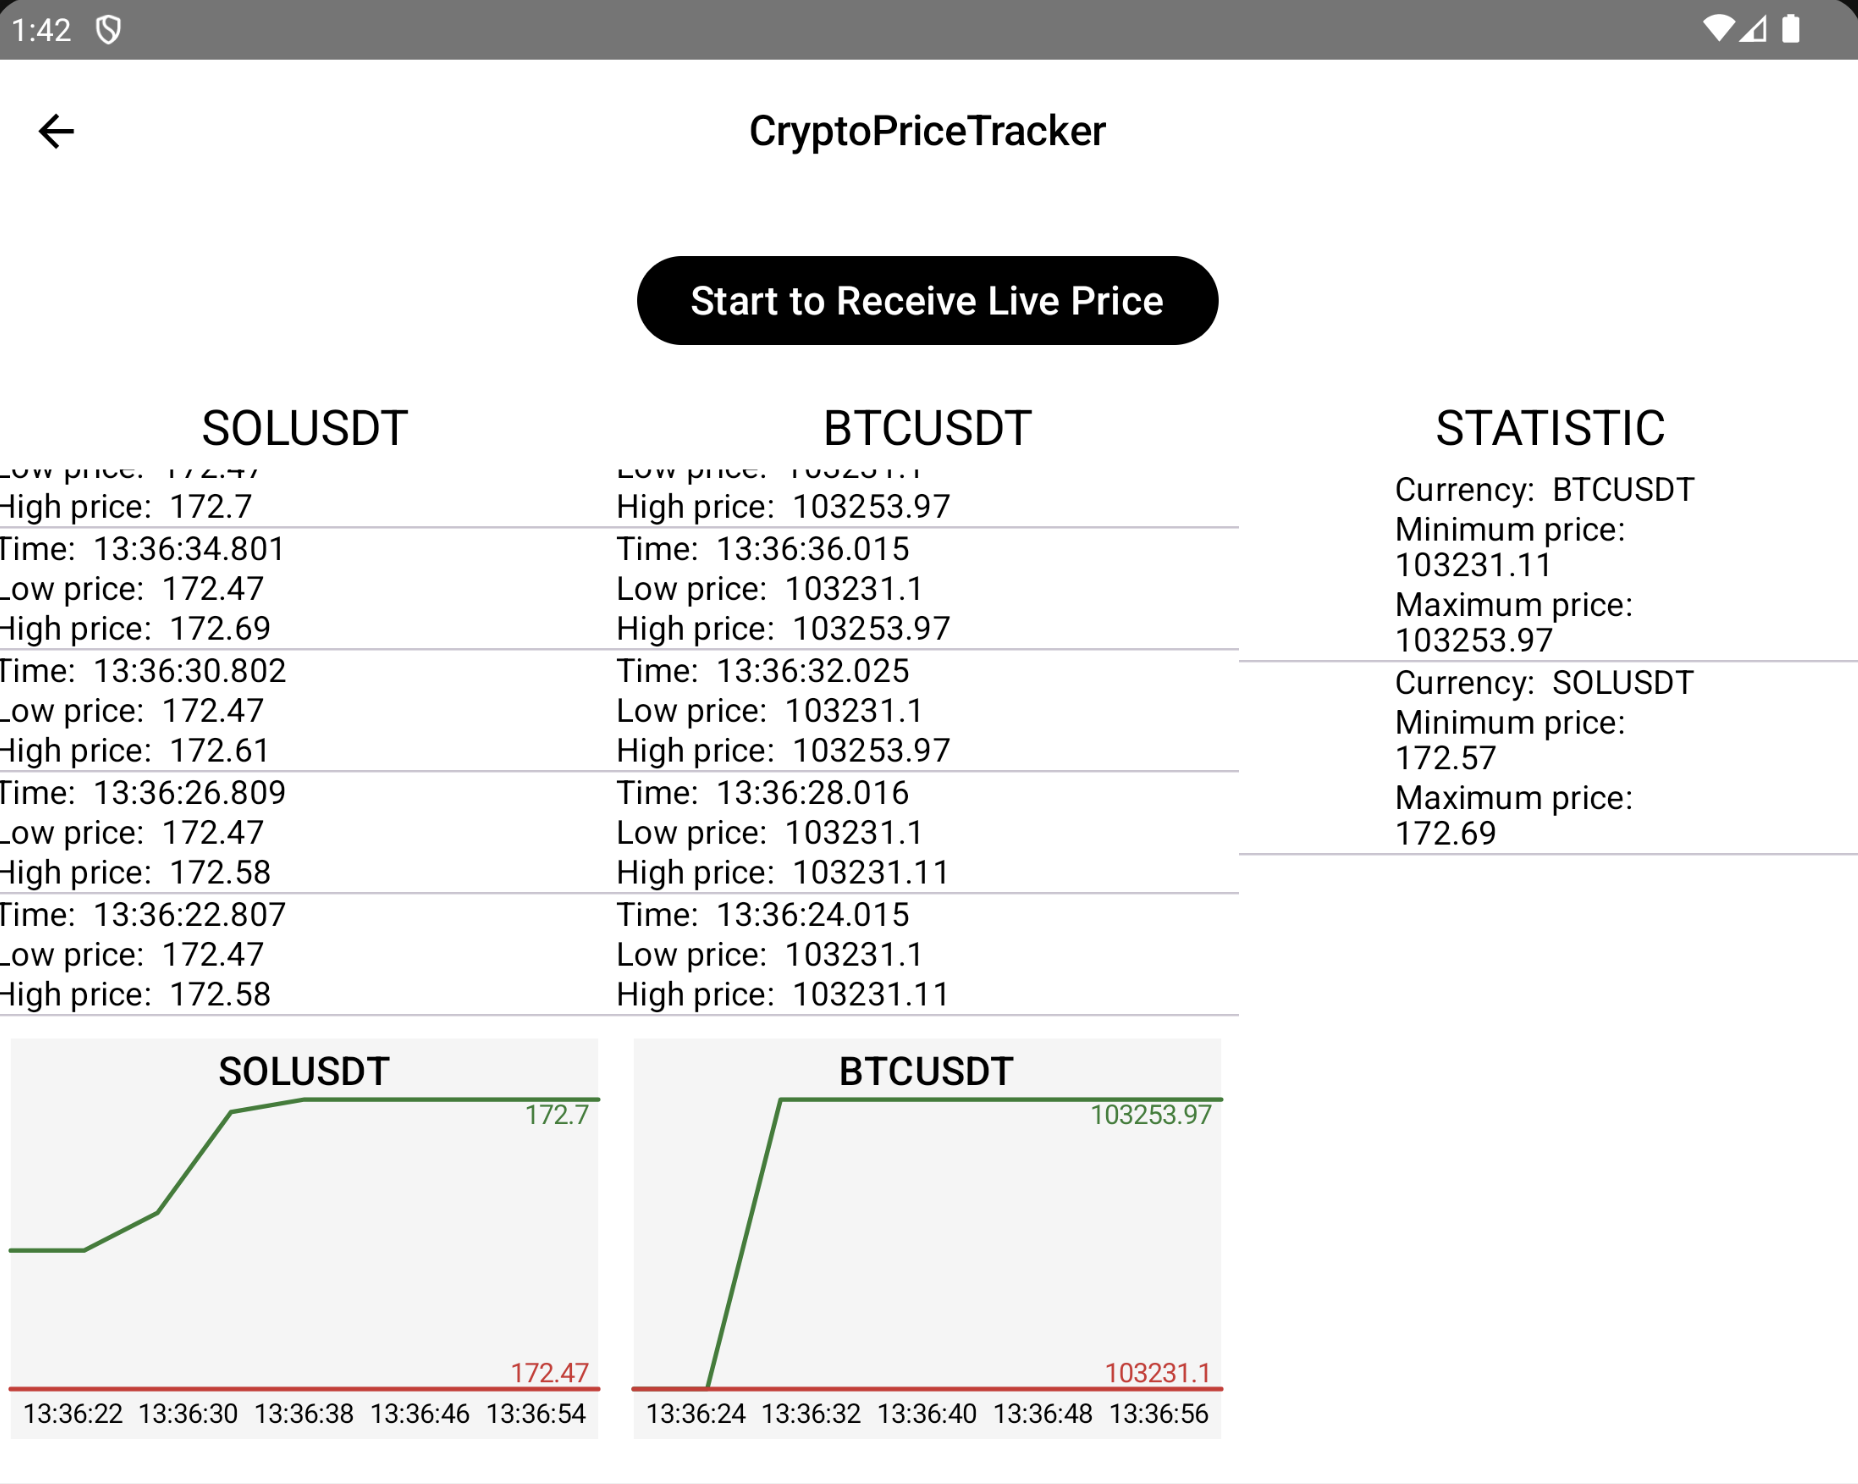
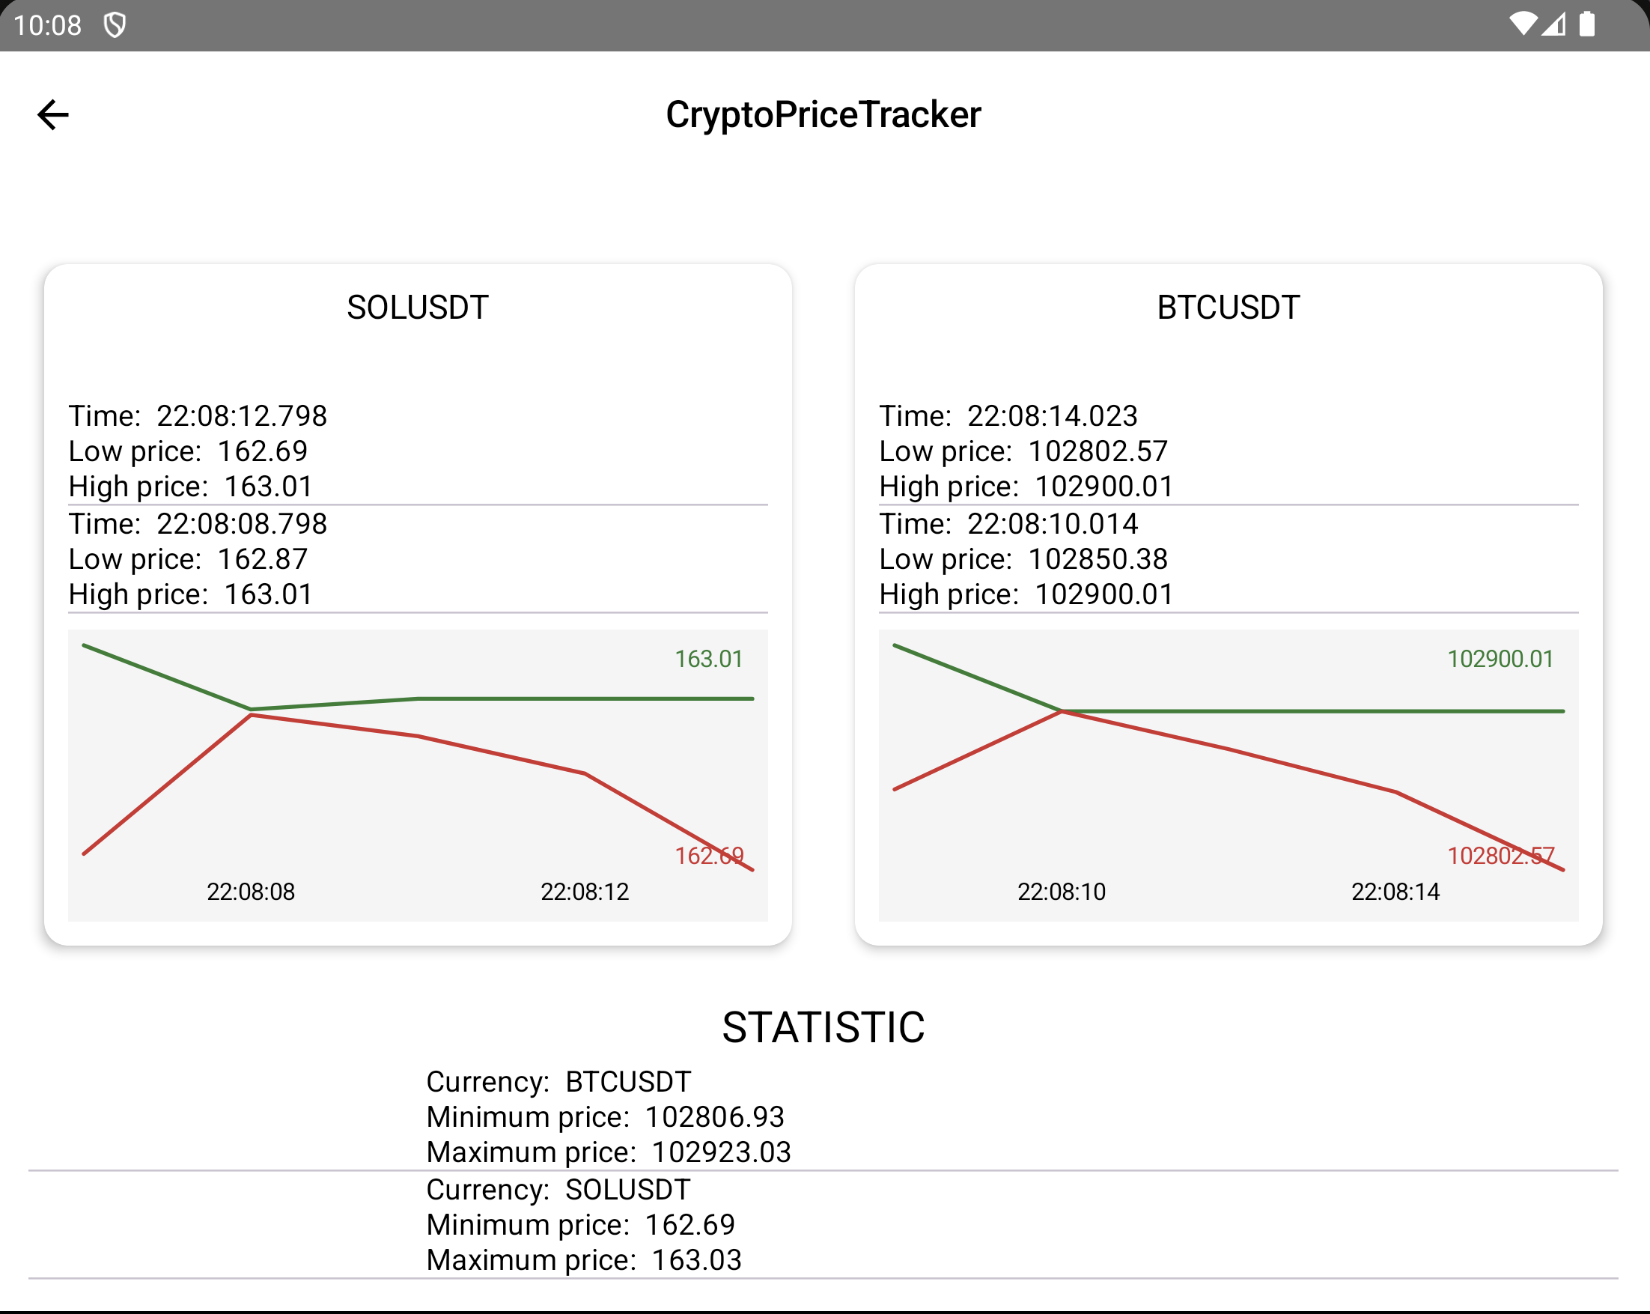
clean up visualization on crypto price display screen with updated images

diff --git a/composeApp/src/commonMain/kotlin/org/example/kmpsamples/presentation/cryptocurrencies/CryptocurrencyScreen.kt b/composeApp/src/commonMain/kotlin/org/example/kmpsamples/presentation/cryptocurrencies/CryptocurrencyScreen.kt
@@ -1,28 +1,25 @@
 package org.example.kmpsamples.presentation.cryptocurrencies
 
+import androidx.compose.runtime.LaunchedEffect
 import androidx.compose.foundation.Canvas
 import androidx.compose.foundation.background
 import androidx.compose.foundation.layout.*
-import androidx.compose.material3.Button
-import androidx.compose.material3.MaterialTheme
-import androidx.compose.material3.Text
-import androidx.compose.material3.windowsizeclass.WindowWidthSizeClass
+import androidx.compose.material3.*
 import androidx.compose.runtime.Composable
 import androidx.compose.runtime.State
 import androidx.compose.ui.Alignment
 import androidx.compose.ui.Modifier
+import androidx.compose.ui.draw.shadow
 import androidx.compose.ui.graphics.Color
 import androidx.compose.ui.graphics.Path
 import androidx.compose.ui.graphics.StrokeCap
 import androidx.compose.ui.graphics.StrokeJoin
 import androidx.compose.ui.graphics.drawscope.Stroke
-import androidx.compose.ui.text.intl.Locale
-import androidx.compose.ui.text.toUpperCase
+import androidx.compose.ui.text.style.TextAlign
 import androidx.compose.ui.unit.dp
+import kotlin.math.roundToInt
 import kmpsamples.composeapp.generated.resources.Res
-import kmpsamples.composeapp.generated.resources.button_start
 import kmpsamples.composeapp.generated.resources.statistic
-
 import org.example.kmpsamples.presentation.cryptocurrencies.viewModel.CryptocurrencyViewModel
 import org.example.kmpsamples.presentation.cryptocurrencies.viewModel.dtos.KLineDataUIState
 import org.example.kmpsamples.presentation.cryptocurrencies.views.CryptocurrencyList
@@ -30,11 +27,7 @@ import org.example.kmpsamples.presentation.cryptocurrencies.views.KlineListItem
 import org.example.kmpsamples.presentation.cryptocurrencies.views.KlineStatisticListItem
 import org.example.kmpsamples.presentation.fillMaxSizeModifier
 import org.example.kmpsamples.presentation.fillMaxWidthModifier
-import org.example.kmpsamples.presentation.getWindowSizeClass
 import org.jetbrains.compose.resources.stringResource
-
-import androidx.compose.ui.text.style.TextAlign
-import kotlin.math.roundToInt
 
 @Composable
 fun CryptocurrencyScreen(
@@ -42,72 +35,79 @@ fun CryptocurrencyScreen(
     uiState: State<CryptocurrencyViewModel.UIState>,
     onStartCollecting: () -> Unit
 ) {
-    val windowSizeClass = getWindowSizeClass()
-    val wideEnough      = windowSizeClass.widthSizeClass > WindowWidthSizeClass.Compact
+    LaunchedEffect(Unit) {
+        onStartCollecting()
+    }
 
     Column(
-        modifier  = modifier,
+        modifier = modifier
+            .background(MaterialTheme.colorScheme.background)
+            .padding(16.dp),
         horizontalAlignment = Alignment.CenterHorizontally
     ) {
         Spacer(Modifier.height(20.dp))
 
-        Button(onClick = onStartCollecting) {
-            Text(stringResource(Res.string.button_start))
-        }
+        Row(
+            fillMaxSizeModifier.weight(1f),
+            horizontalArrangement = Arrangement.spacedBy(16.dp)
+        ) {
+            val displayedCryptos = uiState.value.cryptoCurrencies.take(5)
+            val colMod = fillMaxWidthModifier.weight(1f / displayedCryptos.size).fillMaxHeight()
 
-        Spacer(Modifier.height(20.dp))
+            displayedCryptos.forEach { listItemUIState ->
+                val trimmedPoints =
+                    (listItemUIState.uiData as? org.example.kmpsamples.shared.ResultState.Success)
+                        ?.value?.take(2).orEmpty()
+                val trimmedPointsChart =
+                    (listItemUIState.uiData as? org.example.kmpsamples.shared.ResultState.Success)
+                        ?.value?.take(5).orEmpty()
 
-        /* ----------  TABLE(S) + CHART(S)  ---------- */
-        Row(fillMaxSizeModifier.weight(1f)) {
+                Card(
+                    modifier = colMod
+                        .padding(8.dp)
+                        .shadow(4.dp, shape = MaterialTheme.shapes.medium),
+                    elevation = CardDefaults.cardElevation(defaultElevation = 6.dp),
+                    colors = CardDefaults.cardColors(containerColor = MaterialTheme.colorScheme.surface)
+                ) {
+                    Column(Modifier.padding(12.dp)) {
+                        Text(
+                            text = listItemUIState.symbol.uppercase(),
+                            style = MaterialTheme.typography.titleMedium,
+                            modifier = Modifier.align(Alignment.CenterHorizontally)
+                        )
 
-            // how many columns – each symbol gets one, plus statistic column if wide
-            val columns = uiState.value.cryptoCurrencies.size + if (wideEnough) 1 else 0
-            val colMod  = fillMaxWidthModifier.weight(1f / columns).fillMaxHeight()
+                        Spacer(Modifier.height(4.dp))
 
-            uiState.value.cryptoCurrencies.forEach { listItemUIState ->
+                        CryptocurrencyList(
+                            modifier = Modifier.wrapContentHeight(),
+                            uiState = org.example.kmpsamples.shared.ResultState.Success(
+                                trimmedPoints
+                            ),
+                            title = ""
+                        ) { rowItem ->
+                            KlineListItem(
+                                modifier = fillMaxWidthModifier.wrapContentHeight(),
+                                klineData = rowItem
+                            )
+                        }
 
-                Column(colMod) {
+                        Spacer(Modifier.height(8.dp))
 
-                    /* ➊ live K‑line table */
-                    CryptocurrencyList(
-                        modifier = Modifier.weight(1f),
-                        uiState  = listItemUIState.uiData,
-                        title    = listItemUIState.symbol
-                    ) { rowItem ->
-                        KlineListItem(
-                            modifier = fillMaxWidthModifier.wrapContentHeight(),
-                            klineData = rowItem
+                        PriceChart(
+                            data = trimmedPointsChart,
+                            title = "",
+                            modifier = Modifier
+                                .height(150.dp)
+                                .fillMaxWidth()
                         )
                     }
-
-                    Spacer(Modifier.height(10.dp))
-
-                    /* ➋ lightweight dual‑series chart (high & low) */
-                    val points = (listItemUIState.uiData as? org.example.kmpsamples.shared.ResultState.Success)
-                        ?.value.orEmpty()
-
-                    PriceChart(
-                        data   = points,
-                        title  = listItemUIState.symbol.uppercase(),
-                        modifier = Modifier
-                            .height(180.dp)
-                            .fillMaxWidth()
-                            .padding(horizontal = 8.dp)
-                    )
                 }
-            }
-
-            /* optional statistic column */
-            if (wideEnough) {
-                statisticList(colMod, uiState)
             }
         }
 
         Spacer(Modifier.height(20.dp))
 
-        if (!wideEnough) {
-            statisticList(Modifier.wrapContentHeight(), uiState)
-        }
+        statisticList(Modifier.wrapContentHeight(), uiState)
     }
 }
 
@@ -116,10 +116,12 @@ private fun statisticList(modifier: Modifier, uiState: State<CryptocurrencyViewM
     CryptocurrencyList(
         modifier,
         uiState.value.statistic,
-        stringResource(Res.string.statistic).toUpperCase(Locale.current)
+        stringResource(Res.string.statistic).uppercase()
     ) { listItem ->
         KlineStatisticListItem(
-            Modifier.fillMaxWidth(0.5f).wrapContentHeight(),
+            Modifier
+                .fillMaxWidth(0.5f)
+                .wrapContentHeight(),
             listItem
         )
     }
@@ -130,48 +132,27 @@ private fun PriceChart(
     modifier: Modifier = Modifier,
     data: List<KLineDataUIState>,
     title: String,
-    lineColorHigh: Color = Color(0xFF2E7D32),   // green-700
-    lineColorLow:  Color = Color(0xFFD32F2F),   // red-700
-    backgroundColor: Color = Color(0xFFF5F5F5)  // light gray
+    lineColorHigh: Color = Color(0xFF2E7D32),
+    lineColorLow: Color = Color(0xFFD32F2F),
+    backgroundColor: Color = Color(0xFFF5F5F5)
 ) {
     if (data.isEmpty()) return
 
-    /* ── pre-compute ranges ───────────────────────────────────────────── */
-    val maxPrice   = data.maxOf { it.highPrice }
-    val minPrice   = data.minOf { it.lowPrice }
+    val maxPrice = data.maxOf { it.highPrice }
+    val minPrice = data.minOf { it.lowPrice }
     val priceRange = (maxPrice - minPrice).takeIf { it != 0f } ?: 1f
-    val stepX      = 1f / (data.lastIndex.coerceAtLeast(1))
-    fun xAt(idx: Int, w: Float) = w * (1 - stepX * idx)          // newest → right
+    val stepX = 1f / (data.lastIndex.coerceAtLeast(1))
+    fun xAt(idx: Int, w: Float) = w * (1 - stepX * idx)
 
-    /* ── pick four x-axis ticks ───────────────────────────────────────── */
-    val tickCount   = 4
-    val tickStep    = (data.lastIndex / (tickCount - 1)).coerceAtLeast(1)
-    val tickIndices = (0..data.lastIndex step tickStep).toList()
-
-    /* ── latest candle (index 0 is newest, see xAt()) ─────────────────── */
     val latest = data[0]
 
-    /* ─────────────────────────── UI ──────────────────────────────────── */
-    Column(modifier.background(backgroundColor)) {
-
-        /* ① title */
-        Text(
-            text      = title,
-            style     = MaterialTheme.typography.labelLarge,
-            modifier  = Modifier
-                .align(Alignment.CenterHorizontally)
-                .padding(top = 4.dp, bottom = 2.dp)
-        )
-
-        /* ② chart + right-side price labels */
+    Column(modifier.background(backgroundColor).padding(8.dp)) {
         Box(
             Modifier
                 .weight(1f)
                 .fillMaxWidth()
         ) {
-            /* canvas with price lines */
             Canvas(Modifier.fillMaxSize()) {
-                /* high line */
                 val highPath = Path().apply {
                     data.forEachIndexed { idx, p ->
                         val x = xAt(idx, size.width)
@@ -180,27 +161,25 @@ private fun PriceChart(
                     }
                 }
                 drawPath(
-                    path  = highPath,
+                    path = highPath,
                     color = lineColorHigh,
                     style = Stroke(2.dp.toPx(), cap = StrokeCap.Round, join = StrokeJoin.Round)
                 )
 
-                /* low line */
                 val lowPath = Path().apply {
                     data.forEachIndexed { idx, p ->
                         val x = xAt(idx, size.width)
-                        val y = size.height * (1 - (p.lowPrice  - minPrice) / priceRange)
+                        val y = size.height * (1 - (p.lowPrice - minPrice) / priceRange)
                         if (idx == 0) moveTo(x, y) else lineTo(x, y)
                     }
                 }
                 drawPath(
-                    path  = lowPath,
+                    path = lowPath,
                     color = lineColorLow,
                     style = Stroke(2.dp.toPx(), cap = StrokeCap.Round, join = StrokeJoin.Round)
                 )
             }
 
-            /* right-hand latest-price labels */
             Column(
                 Modifier
                     .fillMaxHeight()
@@ -209,44 +188,42 @@ private fun PriceChart(
                 verticalArrangement = Arrangement.SpaceBetween,
                 horizontalAlignment = Alignment.End
             ) {
-                Text(                         // latest HIGH
-                    text      = latest.highPrice.pretty(),
-                    style     = MaterialTheme.typography.labelSmall,
-                    color     = lineColorHigh,
+                Text(
+                    text = latest.highPrice.pretty(),
+                    style = MaterialTheme.typography.labelSmall,
+                    color = lineColorHigh,
                     textAlign = TextAlign.End
                 )
-                Text(                         // latest LOW
-                    text      = latest.lowPrice.pretty(),
-                    style     = MaterialTheme.typography.labelSmall,
-                    color     = lineColorLow,
+                Text(
+                    text = latest.lowPrice.pretty(),
+                    style = MaterialTheme.typography.labelSmall,
+                    color = lineColorLow,
                     textAlign = TextAlign.End
                 )
             }
         }
 
-        /* ③ x-axis tick labels (newest on right) */
         Row(
             Modifier
                 .fillMaxWidth()
-                .padding(vertical = 4.dp, horizontal = 2.dp),
-            horizontalArrangement = Arrangement.SpaceBetween,
-            verticalAlignment     = Alignment.CenterVertically
+                .padding(top = 4.dp),
+            horizontalArrangement = Arrangement.SpaceEvenly,
+            verticalAlignment = Alignment.CenterVertically
         ) {
-            tickIndices.reversed().forEach { idx ->
-                val label = data[idx].localDateTime
-                    .substringBefore('.')    // strip milliseconds
-                    .takeLast(8)             // HH:mm:ss
+            data.take(2).reversed().forEach { point ->
+                val label = point.localDateTime.substringBefore('.').takeLast(8)
                 Text(
-                    text      = label,
-                    style     = MaterialTheme.typography.labelSmall,
+                    text = label,
+                    style = MaterialTheme.typography.labelSmall,
                     textAlign = TextAlign.Center,
-                    modifier  = Modifier.weight(1f)
+                    modifier = Modifier.weight(1f)
                 )
             }
         }
     }
 }
 
-/** round to 2 decimal places and turn into a String – works on every target */
 private fun Float.pretty(): String =
     ((this * 100).roundToInt() / 100f).toString()
+
+
